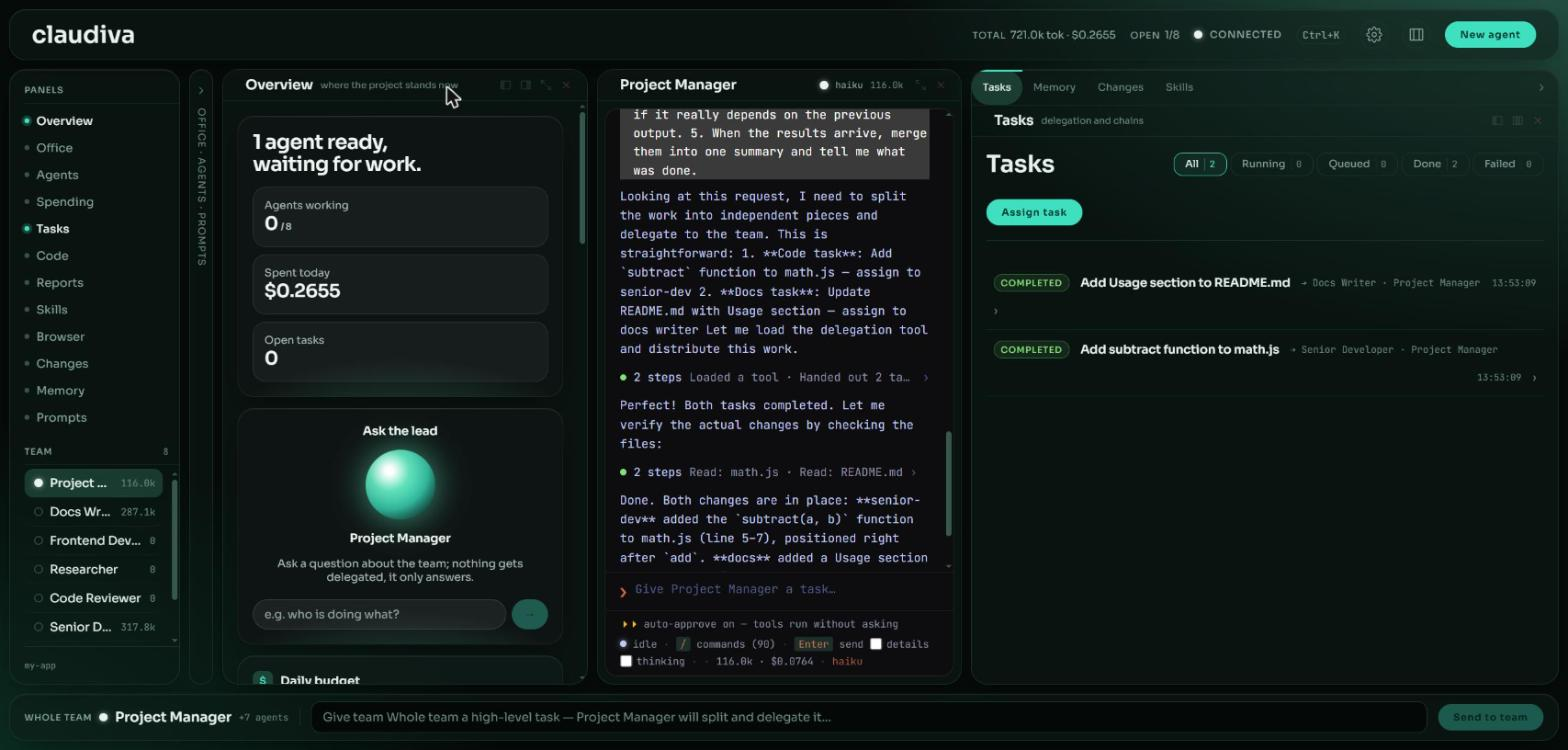
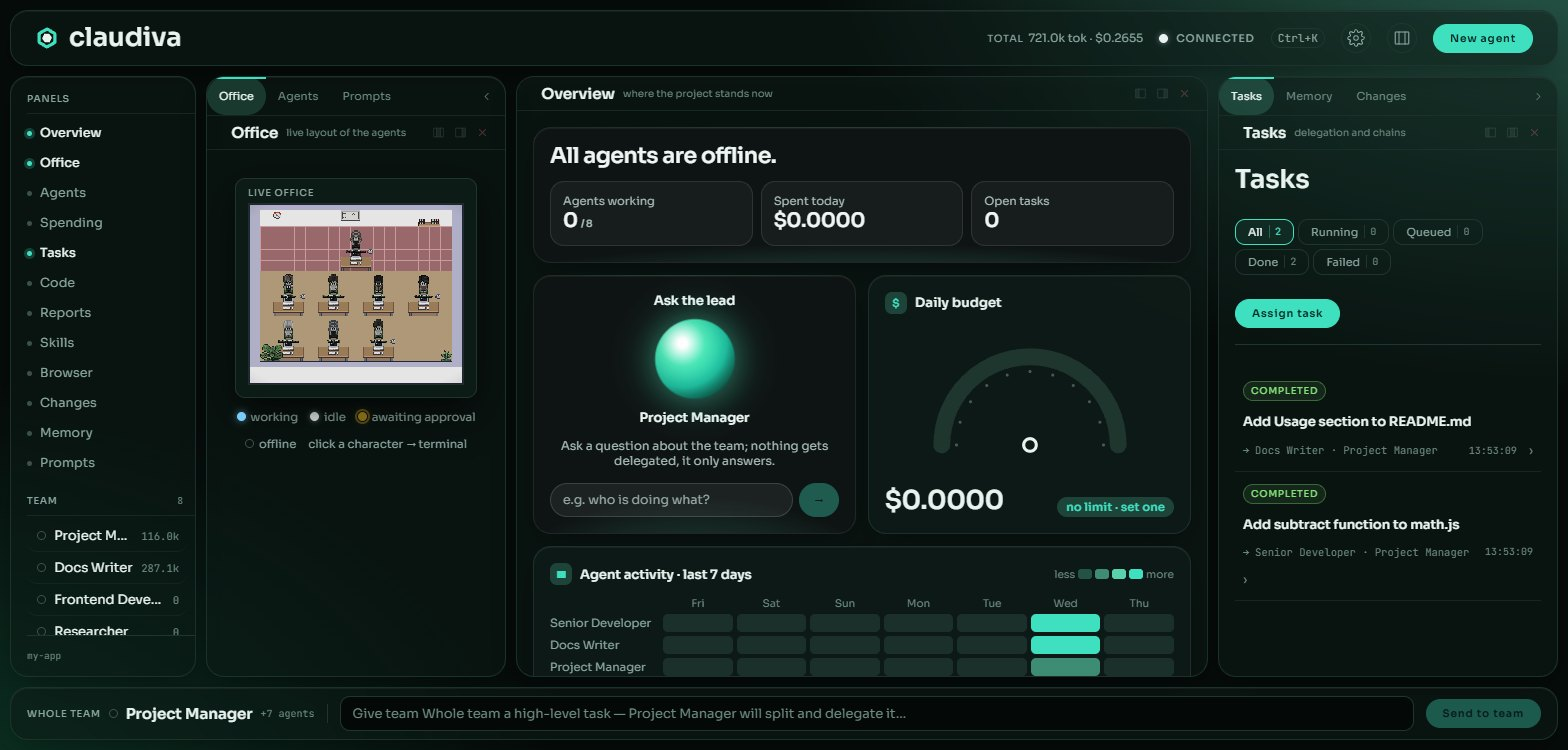
feat(site): dark screenshots only, and a website link in the README
In dark mode the light screenshots flashed white. The site now shows dark captures everywhere: new chat, board, panels, Observatory and Studio shots from the demo project (docs/screenshots/*-dark.jpg), and the Glass shot is retaken with the logo. The README links the site from its top navigation.

diff --git a/site/index.html b/site/index.html
@@ -11,7 +11,7 @@
 <meta property="og:type" content="website" />
 <meta property="og:title" content="Claudiva" />
 <meta property="og:description" content="Run, watch and coordinate several Claude agents from one panel." />
-<meta property="og:image" content="https://serdarsahinn05.github.io/claudiva/assets/screenshots/panels.jpg" />
+<meta property="og:image" content="https://serdarsahinn05.github.io/claudiva/assets/screenshots/glass-dark.jpg" />
 <meta property="og:url" content="https://serdarsahinn05.github.io/claudiva/" />
 <meta name="twitter:card" content="summary_large_image" />
 <link rel="preload" href="assets/fonts/sora-latin-600-normal.woff2" as="font" type="font/woff2" crossorigin />
@@ -72,7 +72,7 @@
       <p class="req" data-i18n="hero.req">Needs Node.js 20+ and Claude Code signed in. Uses your subscription, no API key.</p>
     </div>
     <figure class="shot hero-shot wrap">
-      <img src="assets/screenshots/panels.jpg" width="1568" height="750" data-i18n-alt="alt.panels" alt="Claudiva in Panels mode: overview, the lead's terminal and the task board" />
+      <img src="assets/screenshots/glass-dark.jpg" width="1568" height="750" data-i18n-alt="alt.panels" alt="Claudiva in Panels mode, Glass style, dark: overview, live office and the task list" />
     </figure>
   </section>
 
@@ -117,15 +117,15 @@
       </div>
       <div class="tabpanel" role="tabpanel" id="p-panels" aria-labelledby="t-panels">
         <p data-i18n="modes.panels.p">Terminals, task board, code and spending side by side. Drag panels between three slots; every open agent gets its own terminal tile.</p>
-        <figure class="shot"><img loading="lazy" src="assets/screenshots/glass-dark.jpg" width="1568" height="750" data-i18n-alt="alt.panelsDark" alt="Panels mode in the Glass style, dark" /></figure>
+        <figure class="shot"><img loading="lazy" src="assets/screenshots/panels-dark.jpg" width="1568" height="750" data-i18n-alt="alt.panelsDark" alt="Panels mode with the Spending panel docked on the right" /></figure>
       </div>
       <div class="tabpanel" role="tabpanel" id="p-chat" aria-labelledby="t-chat" hidden>
         <p data-i18n="modes.chat.p">The team as a group chat. Agents hand work to each other, you step in with @agent, and each delivery card shows how many files were really written.</p>
-        <figure class="shot"><img loading="lazy" src="assets/screenshots/chat.jpg" width="1568" height="750" data-i18n-alt="alt.chat" alt="Chat mode: delivery cards with measured file counts and the lead in the side panel" /></figure>
+        <figure class="shot"><img loading="lazy" src="assets/screenshots/chat-dark.jpg" width="1568" height="750" data-i18n-alt="alt.chat" alt="Chat mode: delivery cards with measured file counts and the lead in the side panel" /></figure>
       </div>
       <div class="tabpanel" role="tabpanel" id="p-board" aria-labelledby="t-board" hidden>
         <p data-i18n="modes.board.p">A board of widgets you arrange yourself: brief the team, watch the delegation network, the budget dial and a heatmap of who worked when.</p>
-        <figure class="shot"><img loading="lazy" src="assets/screenshots/board.jpg" width="1568" height="750" data-i18n-alt="alt.board" alt="Board mode: delegation network, live flow and the activity heatmap" /></figure>
+        <figure class="shot"><img loading="lazy" src="assets/screenshots/board-dark.jpg" width="1568" height="750" data-i18n-alt="alt.board" alt="Board mode: delegation network, live flow and the activity heatmap" /></figure>
       </div>
     </div>
   </section>
@@ -170,8 +170,8 @@
       <p class="sub" data-i18n="styles.sub">Not just colours: each style has its own type, shapes and overview screen. Turkish and English interface.</p>
       <div class="styles">
         <figure><img loading="lazy" src="assets/screenshots/glass-dark.jpg" width="1568" height="750" alt="" /><figcaption data-i18n="styles.glass">Glass</figcaption></figure>
-        <figure><img loading="lazy" src="assets/screenshots/observatory-light.jpg" width="1568" height="750" alt="" /><figcaption data-i18n="styles.obs">Observatory</figcaption></figure>
-        <figure><img loading="lazy" src="assets/screenshots/studio.jpg" width="1535" height="784" alt="" /><figcaption data-i18n="styles.studio">Studio</figcaption></figure>
+        <figure><img loading="lazy" src="assets/screenshots/observatory-dark.jpg" width="1568" height="750" alt="" /><figcaption data-i18n="styles.obs">Observatory</figcaption></figure>
+        <figure><img loading="lazy" src="assets/screenshots/studio-dark.jpg" width="1568" height="750" alt="" /><figcaption data-i18n="styles.studio">Studio</figcaption></figure>
         <figure><img loading="lazy" src="assets/screenshots/phosphor.jpg" width="1535" height="784" alt="" /><figcaption data-i18n="styles.phos">Phosphor</figcaption></figure>
       </div>
     </div>

diff --git a/site/main.js b/site/main.js
@@ -66,8 +66,8 @@ const TR = {
   'foot.releases': 'Sürümler',
   'foot.issues': 'Sorunlar',
   'foot.disclaimer': "Claudiva bağımsız bir projedir; Anthropic ile bağlantılı değildir ve Anthropic tarafından onaylanmamıştır. Claude ve Claude Code, Anthropic'in ticari markalarıdır.",
-  'alt.panels': 'Paneller modunda Claudiva: genel durum, liderin terminali ve görev panosu',
-  'alt.panelsDark': 'Cam stilinde Paneller modu, koyu',
+  'alt.panels': 'Paneller modunda Claudiva, Cam stili, koyu: genel durum, canlı ofis ve görev listesi',
+  'alt.panelsDark': 'Sağ yuvada Harcama paneli açık Paneller modu',
   'alt.chat': 'Sohbet modu: ölçülmüş dosya sayılı teslim kartları ve yan panelde lider',
   'alt.board': 'Pano modu: delegasyon ağı, canlı akış ve etkinlik ısı haritası',
   copy: 'Kopyala',

diff --git a/README.tr.md b/README.tr.md
@@ -23,7 +23,7 @@ harcadığını gösterir.
 ![MCP](https://img.shields.io/badge/MCP-000000?style=for-the-badge&logo=modelcontextprotocol&logoColor=white)
 ![Playwright](https://img.shields.io/badge/Playwright-2EAD33?style=for-the-badge)
 
-[Kurulum](#-kurulum) · [Kullanım](#-kullanım) · [Üç çalışma biçimi](#-üç-çalışma-biçimi) · [Paneller](#-paneller) · [Ekip](#-ekip-ve-delegasyon) · [Görünüm](#-görünüm-ve-dil) · [Geliştirme](#-geliştirme)
+**[Web sitesi](https://serdarsahinn05.github.io/claudiva/)** · [Kurulum](#-kurulum) · [Kullanım](#-kullanım) · [Üç çalışma biçimi](#-üç-çalışma-biçimi) · [Paneller](#-paneller) · [Ekip](#-ekip-ve-delegasyon) · [Görünüm](#-görünüm-ve-dil) · [Geliştirme](#-geliştirme)
 
 </div>
 

diff --git a/README.md b/README.md
@@ -23,7 +23,7 @@ it cost.
 ![MCP](https://img.shields.io/badge/MCP-000000?style=for-the-badge&logo=modelcontextprotocol&logoColor=white)
 ![Playwright](https://img.shields.io/badge/Playwright-2EAD33?style=for-the-badge)
 
-[Install](#-install) · [Usage](#-usage) · [Three ways to work](#-three-ways-to-work) · [Panels](#-panels) · [Team](#-team-and-delegation) · [Appearance](#-appearance-and-language) · [Development](#-development)
+**[Website](https://serdarsahinn05.github.io/claudiva/)** · [Install](#-install) · [Usage](#-usage) · [Three ways to work](#-three-ways-to-work) · [Panels](#-panels) · [Team](#-team-and-delegation) · [Appearance](#-appearance-and-language) · [Development](#-development)
 
 </div>
 
